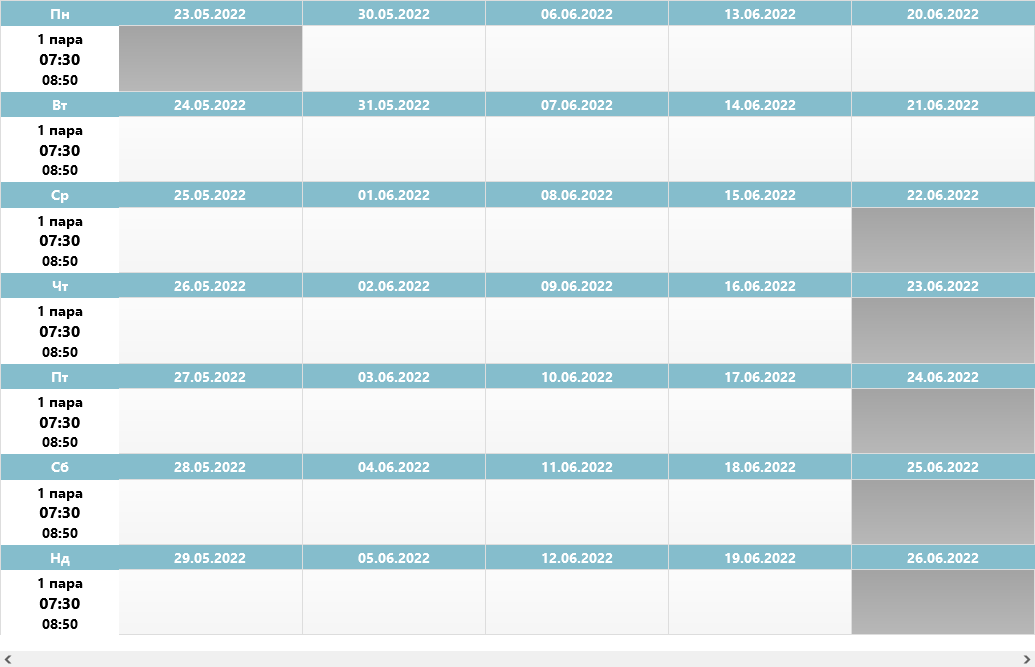
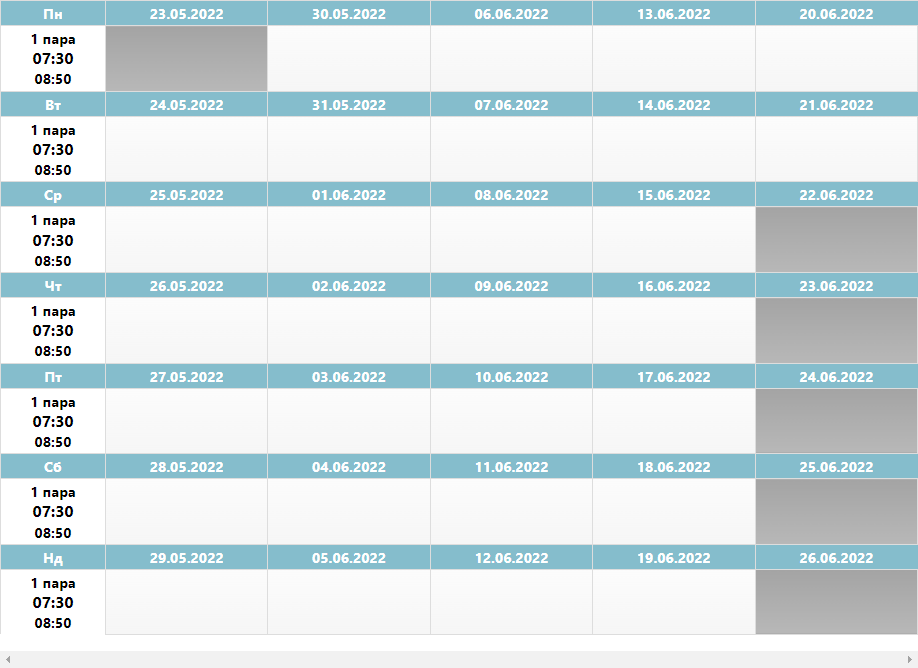
update

diff --git a/studentTable.py b/studentTable.py
@@ -1,4 +1,4 @@
-from io import BytesIO
+import os
 import json
 import requests
 from os.path import exists
@@ -6,6 +6,8 @@ from selenium import webdriver
 from bs4 import BeautifulSoup
 from selenium.webdriver.common.by import By
 from aiogram import Bot, Dispatcher, executor, types
+from selenium.webdriver.firefox.service import Service
+
 
 bot = Bot(token="5385147452:AAEQHoHBmcQnsrQLy7Ikw1bDztuSAcq4T9w")
 dp = Dispatcher(bot)
@@ -77,11 +79,12 @@ if exists('data.json'):
                 if k.lower() == message.text.split('/')[1].lower():
                     await bot.send_message(message.chat.id, 'Зачекайте будь ласка, обробляю фото...')
                     table = 'http://193.189.127.179:5010/time-table/student?' + v
-                    option = webdriver.FirefoxOptions()
+                    option = webdriver.ChromeOptions()
+                    option.binary_location = os.environ.get("GOOGLE_CHROME_BIN")
                     option.add_argument("--headless")
                     option.add_argument("--disable-dev-shm-usage")
                     option.add_argument("--no-sandbox")
-                    browser = webdriver.Firefox(executable_path='C:\\webdrivers\\geckodriver.exe', options=option)
+                    browser = webdriver.Chrome(executable_path=os.environ.get("CHROMEDRIVER_PATH"), chrome_options=option)
                     browser.get(table)
                     body = browser.find_element(By.ID, 'time-tablew6')
                     body.screenshot('picture.png')
